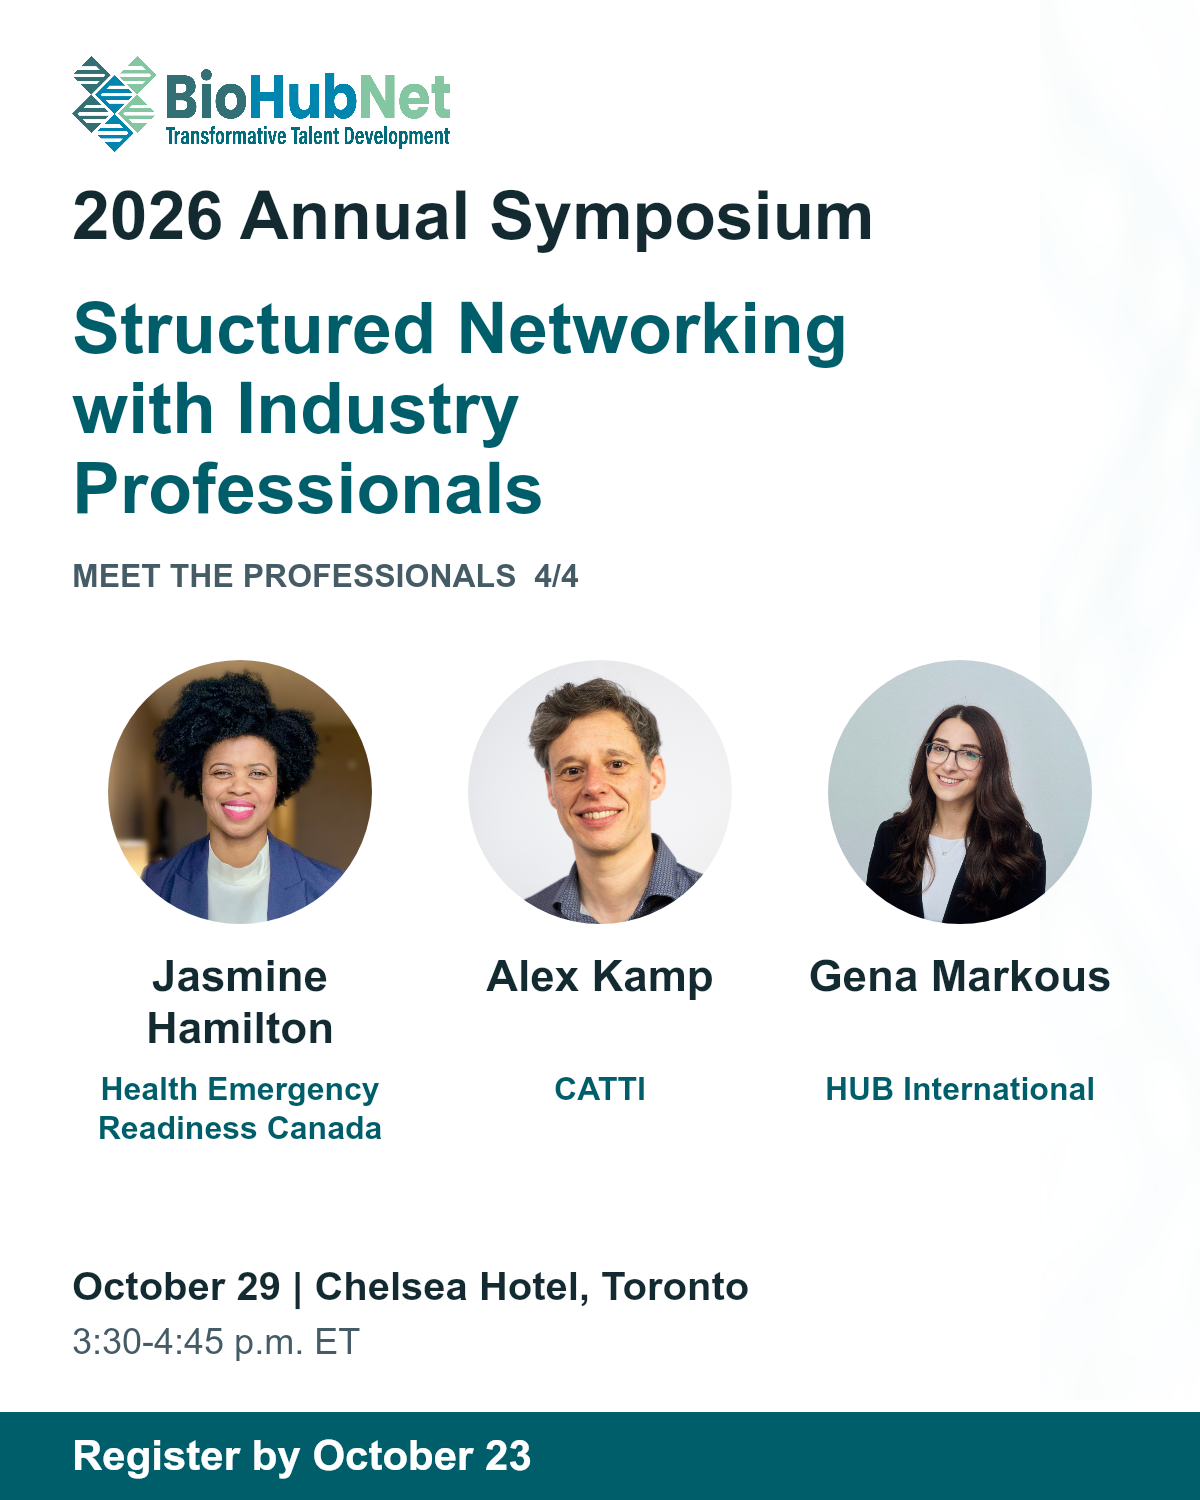
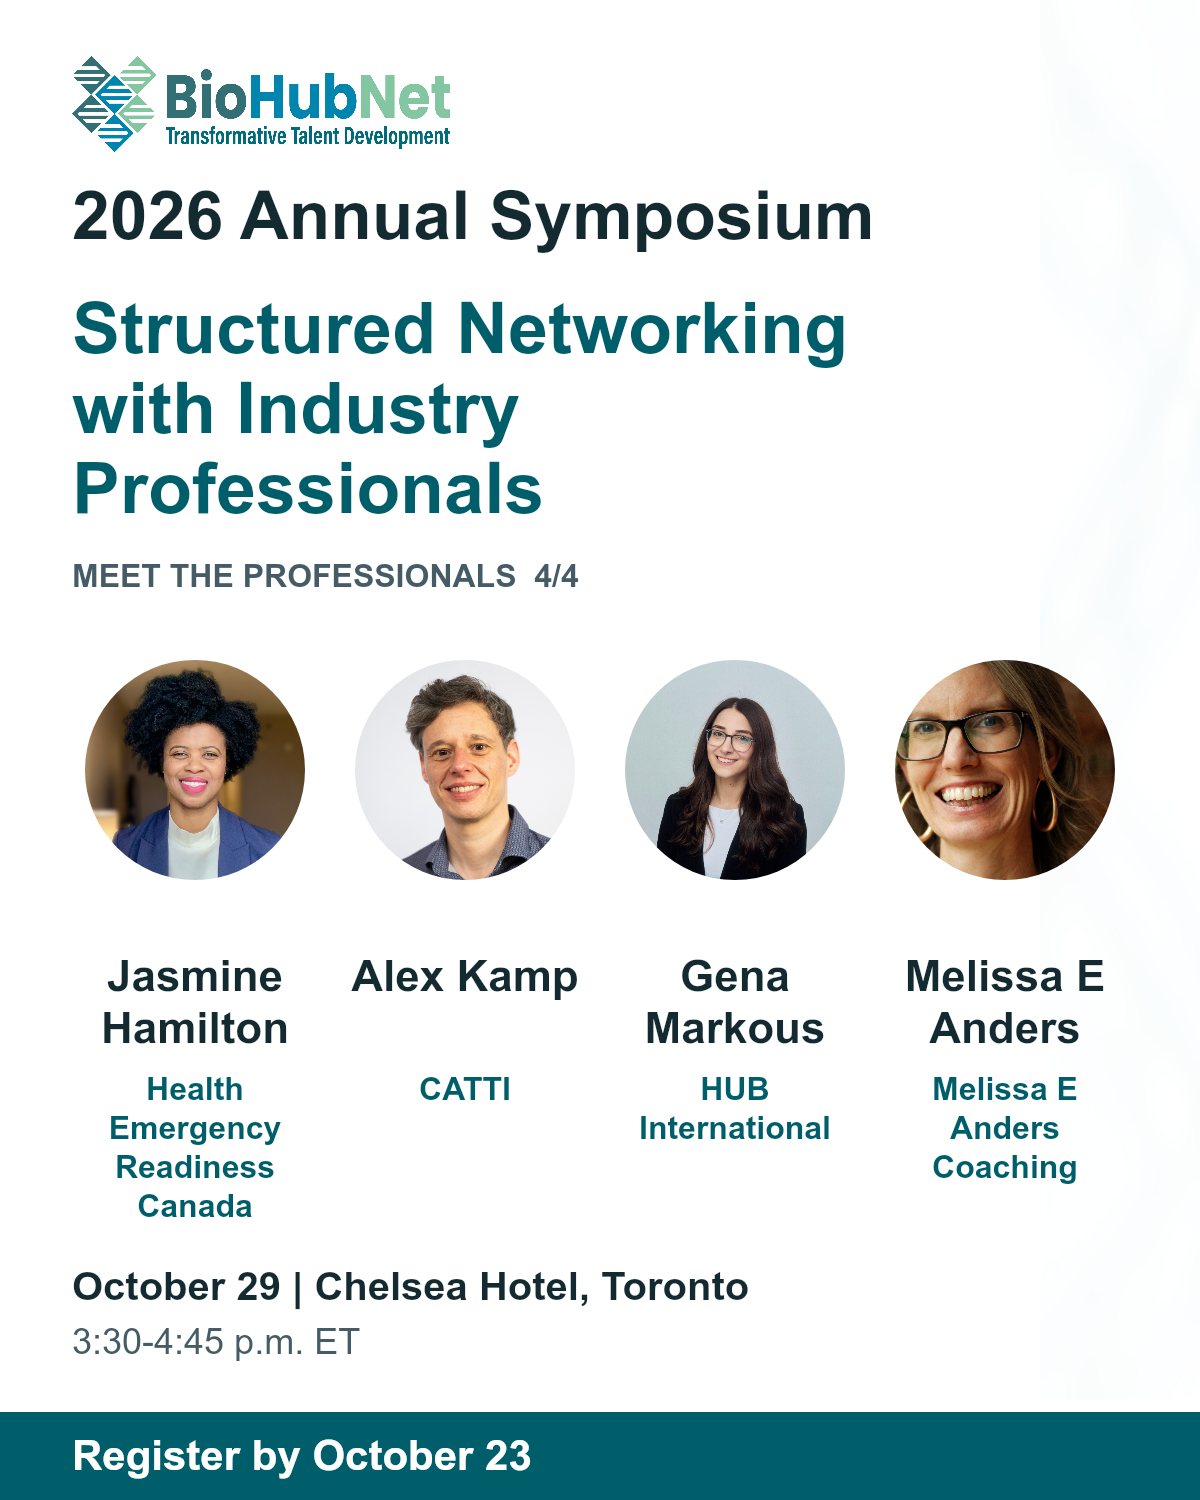
Refresh networking series for the current 14-person lineup

Changed region(s): [[0.0617, 0.4293, 0.9558, 0.828], [0.3392, 0.7053, 0.4317, 0.736], [0.4625, 0.7053, 0.5242, 0.736]]

diff --git a/src/lib/social/symposium-networking-posts.ts b/src/lib/social/symposium-networking-posts.ts
@@ -1,49 +1,50 @@
-// Current approved networking roster checked on October 19, 2026. No public posting is triggered here.
+// Published networking roster checked on October 20, 2026. No public posting is triggered here.
 export const NETWORKING_GROUPS = [
   {
     number: 1,
-    hook: "What does a career in biopharma look like beyond the job description?",
-    invitation: "Bring your questions about bioprocessing, regulatory affairs and advanced therapies to Structured Networking with Industry Professionals at BioHubNet's 2026 Annual Symposium.",
+    hook: "From research to real-world medicines: what does that career path involve?",
+    invitation: "Meet professionals working across biopharma, regulatory affairs and cell therapy at Structured Networking with Industry Professionals, part of BioHubNet's 2026 Annual Symposium.",
     people: [
       { name: "Cynthia Elias", title: "Senior Principal Scientist", company: "Sanofi", graphicCompany: "Sanofi" },
       { name: "David Sealey", title: "Director, Regulatory Affairs (Oncology)", company: "AstraZeneca Canada", graphicCompany: "AstraZeneca Canada" },
       { name: "Lynne Liu", title: "Global Regulatory Affairs CMC Lead", company: "Sanofi", graphicCompany: "Sanofi" },
       { name: "Liz Csaszar", title: "Director, Cell Processing Laboratory", company: "UHN", graphicCompany: "UHN" },
     ],
-    closing: "Meet professionals whose work connects scientific knowledge with the development and delivery of medicines. Start a conversation about the skills and experiences that matter in their fields.",
+    closing: "Ask about the skills, decisions and experiences behind their work. Bring a question about moving from academic research into the development, regulation or manufacturing of medicines.",
   },
   {
     number: 2,
-    hook: "How are regulatory expertise and AI changing the way life sciences teams work?",
-    invitation: "Make space for that conversation at Structured Networking with Industry Professionals, part of BioHubNet's 2026 Annual Symposium.",
+    hook: "AI adoption and regulatory careers: what does the work look like in practice?",
+    invitation: "Go beyond the headlines in conversations with industry professionals at Structured Networking with Industry Professionals, part of BioHubNet's 2026 Annual Symposium.",
     people: [
       { name: "Mona Abu Nameh", title: "CMC Regulatory Affairs Manager | Generative AI & Agents Change Management Lead", company: "AstraZeneca Canada", graphicCompany: "AstraZeneca Canada" },
       { name: "Shadan Ashfaie", title: "Enterprise AI Transformation & Applied AI Portfolio Leader | Advisor", company: "Amgen (Consultant)", graphicCompany: "Amgen (Consultant)" },
       { name: "Kathy Lee", title: "Regulatory Affairs Clinical Trials Associate", company: "AstraZeneca Canada", graphicCompany: "AstraZeneca Canada" },
     ],
-    closing: "Bring your questions about career transitions, regulatory work and the practical adoption of emerging technologies. Connect with people working across these areas.",
+    closing: "Bring your questions about regulatory career paths, changing team workflows and the practical adoption of AI. Hear how these professionals have built their expertise and navigated change.",
   },
   {
     number: 3,
-    hook: "Your research has potential. What could help you take the next step?",
-    invitation: "Connect with founders and innovation professionals at Structured Networking with Industry Professionals during BioHubNet's 2026 Annual Symposium.",
+    hook: "An idea, a startup, a funding strategy: where do you start?",
+    invitation: "Talk with founders and innovation professionals at Structured Networking with Industry Professionals during BioHubNet's 2026 Annual Symposium.",
     people: [
       { name: "Yosuke Niibori", title: "Chief Scientific Officer", company: "Re:Pair Genomics", graphicCompany: "Re:Pair Genomics" },
       { name: "Angela Davoud", title: "Co-founder & Chief Growth Officer", company: "PeakR&D", graphicCompany: "PeakR&D" },
       { name: "Donghoon Lee", title: "CEO", company: "Omphalos Lifesciences", graphicCompany: "Omphalos Lifesciences" },
     ],
-    closing: "Explore the move from academic research into biotechnology entrepreneurship, the role of funding strategy and the value of working across disciplines. Bring a question, an idea or a career goal to the conversation.",
+    closing: "Explore the move from research into biotechnology entrepreneurship, how funding fits into an innovation strategy and what it takes to work across disciplines. Bring your questions, not a polished pitch.",
   },
   {
     number: 4,
-    hook: "A science background can open doors you may not have considered.",
-    invitation: "Discover different paths through Structured Networking with Industry Professionals at BioHubNet's 2026 Annual Symposium.",
+    hook: "Your next step in STEM may be a path you have not considered yet.",
+    invitation: "Explore career choices, leadership and different ways to put a science background to work at Structured Networking with Industry Professionals during BioHubNet's 2026 Annual Symposium.",
     people: [
       { name: "Jasmine Hamilton", title: "Senior Advisor", company: "Health Emergency Readiness Canada, Innovation, Science and Economic Development Canada", graphicCompany: "Health Emergency Readiness Canada" },
       { name: "Alex Kamp", title: "Curriculum Development & Partnerships Lead", company: "CATTI", graphicCompany: "CATTI" },
       { name: "Gena Markous", title: "Life Sciences Insurance Advisor", company: "HUB International", graphicCompany: "HUB International" },
+      { name: "Melissa E Anders", title: "Founder, Leadership & Career Coach", company: "Melissa E Anders Coaching", graphicCompany: "Melissa E Anders Coaching" },
     ],
-    closing: "From public-sector collaboration and biomanufacturing training to life sciences risk management, meet people applying scientific experience in different ways. Bring your questions about the paths, skills and connections that helped them get there.",
+    closing: "From public service and biomanufacturing training to life sciences insurance and STEM career coaching, explore where your experience could lead. Ask about career pivots, leadership and building a career that fits your goals.",
   },
 ] as const;
 
@@ -53,7 +54,7 @@ export const SYMPOSIUM_NETWORKING_POSTS = NETWORKING_GROUPS.map((group) => ({
   workshopSlug: null,
   suggestedDate: `2026-10-${19 + group.number}T13:00:00Z`,
   sourceUrl: "https://biohubnet.ca/2026-annual-symposium/",
-  assetUrl: `https://bhn-training-platform.vercel.app/social/symposium-2026/networking-${group.number}.png`,
+  assetUrl: `https://bhn-training-platform.vercel.app/social/symposium-2026/networking-${group.number}.png?v=20261020-roster14`,
   graphicBrief: `BioHubNet logo, 2026 Annual Symposium, full Structured Networking with Industry Professionals heading. Original circular headshots with no retouching or color changes: ${group.people.map((p) => p.name).join(", ")}. Names and organizations only on the graphic; professional titles in the caption. Spacious layout, subtle glass edge, October 29 | Toronto | Register now. Recheck the current networking lineup before approving.`,
   body: `${group.hook}
 

diff --git a/tests/unit/symposium-networking-posts.test.ts b/tests/unit/symposium-networking-posts.test.ts
@@ -5,10 +5,11 @@ import { NETWORKING_GROUPS, SYMPOSIUM_NETWORKING_POSTS } from "../../src/lib/soc
 import { withSocialTags } from "../../src/lib/social/tags";
 import { DEFAULT_SOCIAL_ORDER, readSocialOrder } from "../../src/lib/social/order";
 
-test("all 13 current networking professionals appear once, in groups of at most four", () => {
-  assert.deepEqual(NETWORKING_GROUPS.map((g) => g.people.length), [4, 3, 3, 3]);
+test("all 14 current networking professionals appear once, in groups of at most four", () => {
+  assert.deepEqual(NETWORKING_GROUPS.map((g) => g.people.length), [4, 3, 3, 4]);
   const names = NETWORKING_GROUPS.flatMap((g) => g.people.map((p) => p.name));
-  assert.equal(new Set(names).size, 13);
+  assert.equal(new Set(names).size, 14);
+  assert.ok(names.includes("Melissa E Anders"));
   assert.ok(!names.some((name) => /Czaniecki|Shivali/.test(name)));
   for (const post of SYMPOSIUM_NETWORKING_POSTS) {
     const body = withSocialTags(post.body);
